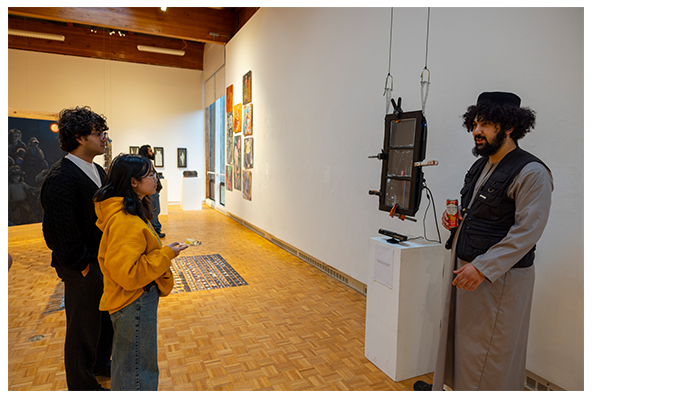
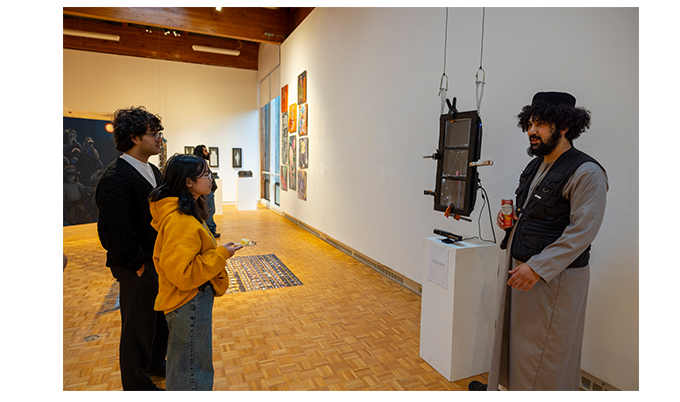
211

diff --git a/src/app.js b/src/app.js
@@ -531,7 +531,7 @@ document.addEventListener('DOMContentLoaded', function() {
              MFA Game Design, NYU Tisch Game Center 2027
             </p>
 
-             <p>
+             <pstyle="margin-bottom: 3rem;">
              Bennington College, Bachelors of Arts, 2025
             </p>
 
@@ -652,6 +652,7 @@ document.addEventListener('DOMContentLoaded', function() {
       title: "Scare Traffic Control",
       visuals: [
         "src/assets/gamesapp/Scaretrafficcontrol1.png",
+        "src/assets/gamesapp/cursecard.png",
         "src/assets/gamesapp/Scaretrafficcontrol2.png",
         "src/assets/gamesapp/Scaretrafficcontrol3.png",
       ],
@@ -661,14 +662,16 @@ document.addEventListener('DOMContentLoaded', function() {
     {
       title: "Sweet and Sour Reunion",
       visuals: [
-        "src/assets/gamesapp/sweetandsour1.png",
-        "src/assets/gamesapp/sweetandsour2.png",
         "src/assets/gamesapp/sweetandsour3.png",
+        "src/assets/gamesapp/menusideup.png",
         "src/assets/gamesapp/sweetandsour4.png",
         "src/assets/gamesapp/sweetandsour5.png",
+        "src/assets/gamesapp/sweetandsour1.png",
+        "src/assets/gamesapp/sweetandsour2.png",
+       
       ],
       medium: "Narrative Social Game",
-      description: `Sweet and Sour Reunion is a narrative roleplaying game set at a chaotic family dinner in a fictional Chinese restaurant. Players embody family members reuniting after years apart, each with hidden objectives, personal constraints, and emotional baggage. Through timed "courses" representing different dishes, players must navigate secrets, alliances, and awkward conversations to meet as many goals as possible before dessert. The game balances humor and tension, using improvisation and empathy to explore family dynamics, miscommunication, and love.`,
+      description: ` Work In Progress: Sweet and Sour Reunion is a narrative roleplaying game set at a chaotic family dinner in a fictional Chinese restaurant. Players embody family members reuniting after years apart, each with hidden objectives, personal constraints, and emotional baggage. Through timed "courses" representing different dishes, players must navigate secrets, alliances, and awkward conversations to meet as many goals as possible before dessert. The game balances humor and tension, using improvisation and empathy to explore family dynamics, miscommunication, and love.`,
     },
     {
       title: "Robert Frost Stone House VR Experience",
@@ -728,8 +731,8 @@ The project blends web-based interactivity with artistic storytelling, offering 
     {
       title: "Roshen Al-Hosh",
       visuals: [
-        "src/assets/gamesapp/Roshen AL-Hosh 1.jpg",
-        "src/assets/gamesapp/Roshen AL-Hosh 2 .jpg",
+        "src/assets/gamesapp/Roshen AL-Hosh 1.png",
+        "src/assets/gamesapp/Roshen AL-Hosh 2 .png",
       ],
       description: `Roshen Al-Hosh is an immersive installation that uses an Xbox 360 camera to track participants' movements in real life, mirrored in the digital space of the installation. On-screen, users look through a window, with their movement enabling navigation in a 2m x 1m confined space.
 
@@ -760,9 +763,10 @@ When I was young, I always imagined what a music video scene might feel like if 
     {
       title: "Flappy Bird Interactive Game",
       visuals: [
-        "src/assets/gamesapp/Flappy Bird Interactive Game 1 .jpg",
         "src/assets/gamesapp/Flappy Bird Interactive Game 2.jpg",
         "src/assets/gamesapp/Flappy Bird Interactive Game 3.jpg",
+        "src/assets/gamesapp/Flappy Bird Interactive Game 1 .jpg",
+        
       ],
       link: {
         text: "More Information",
